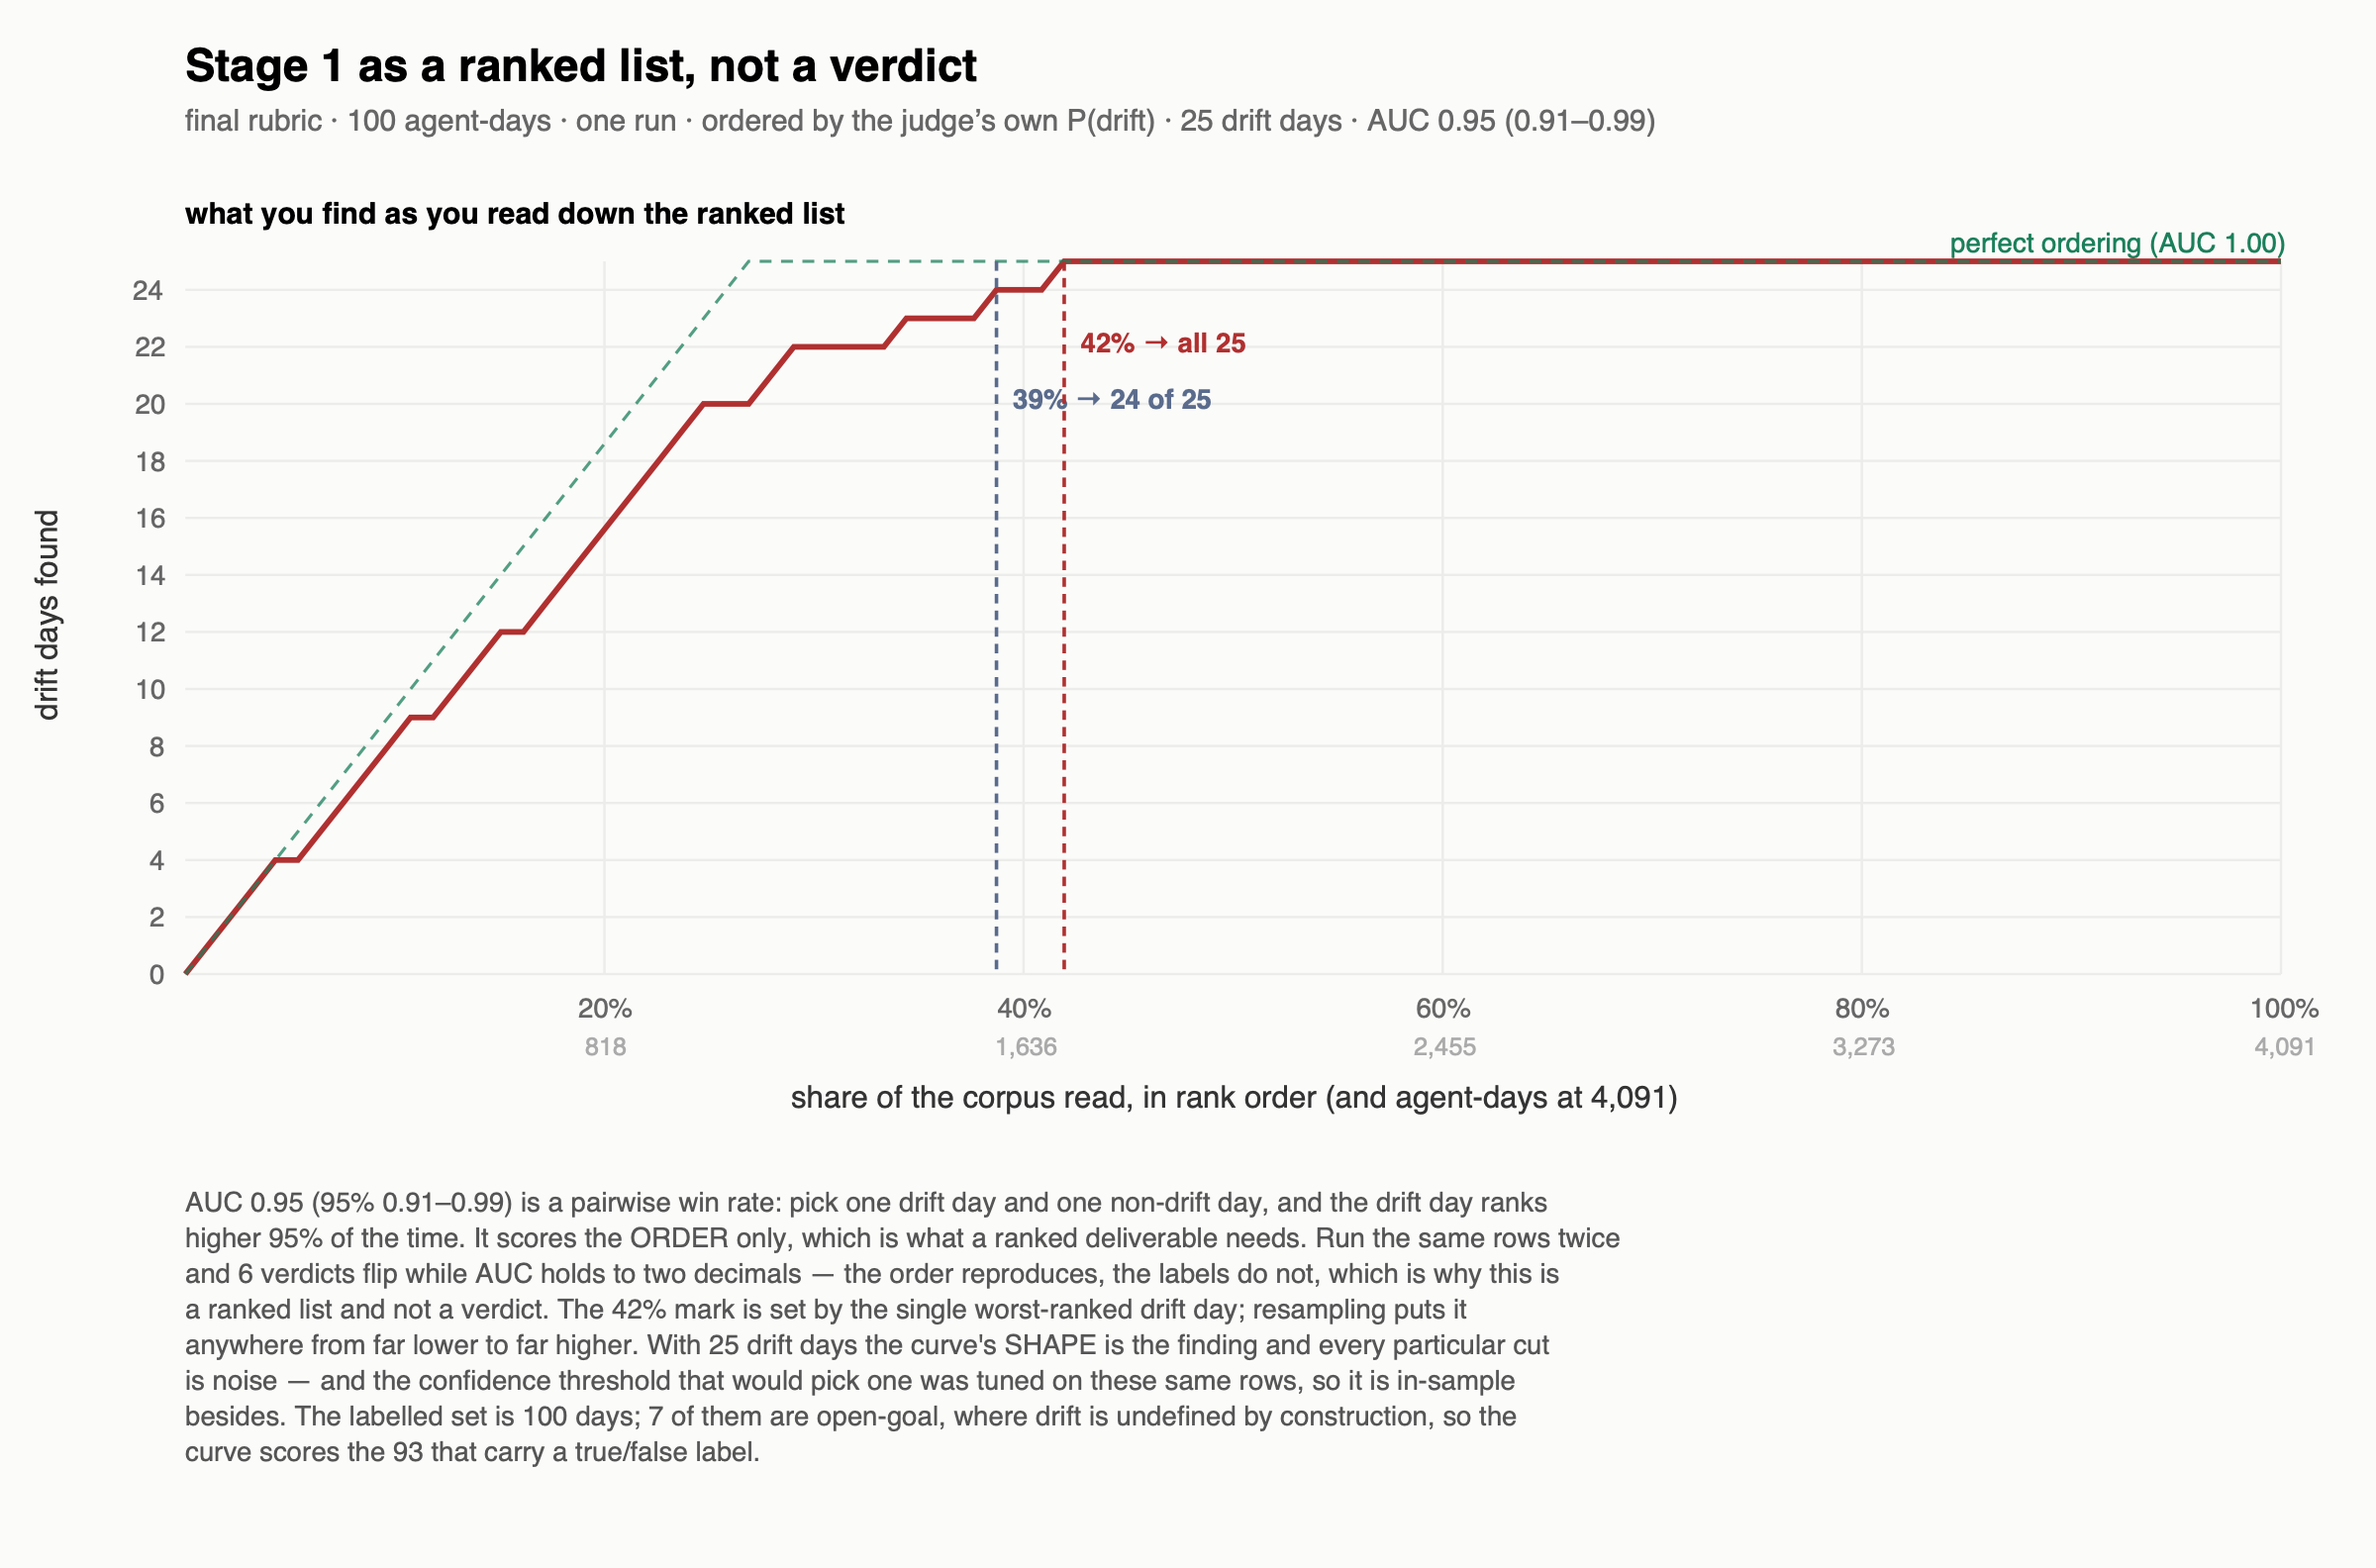
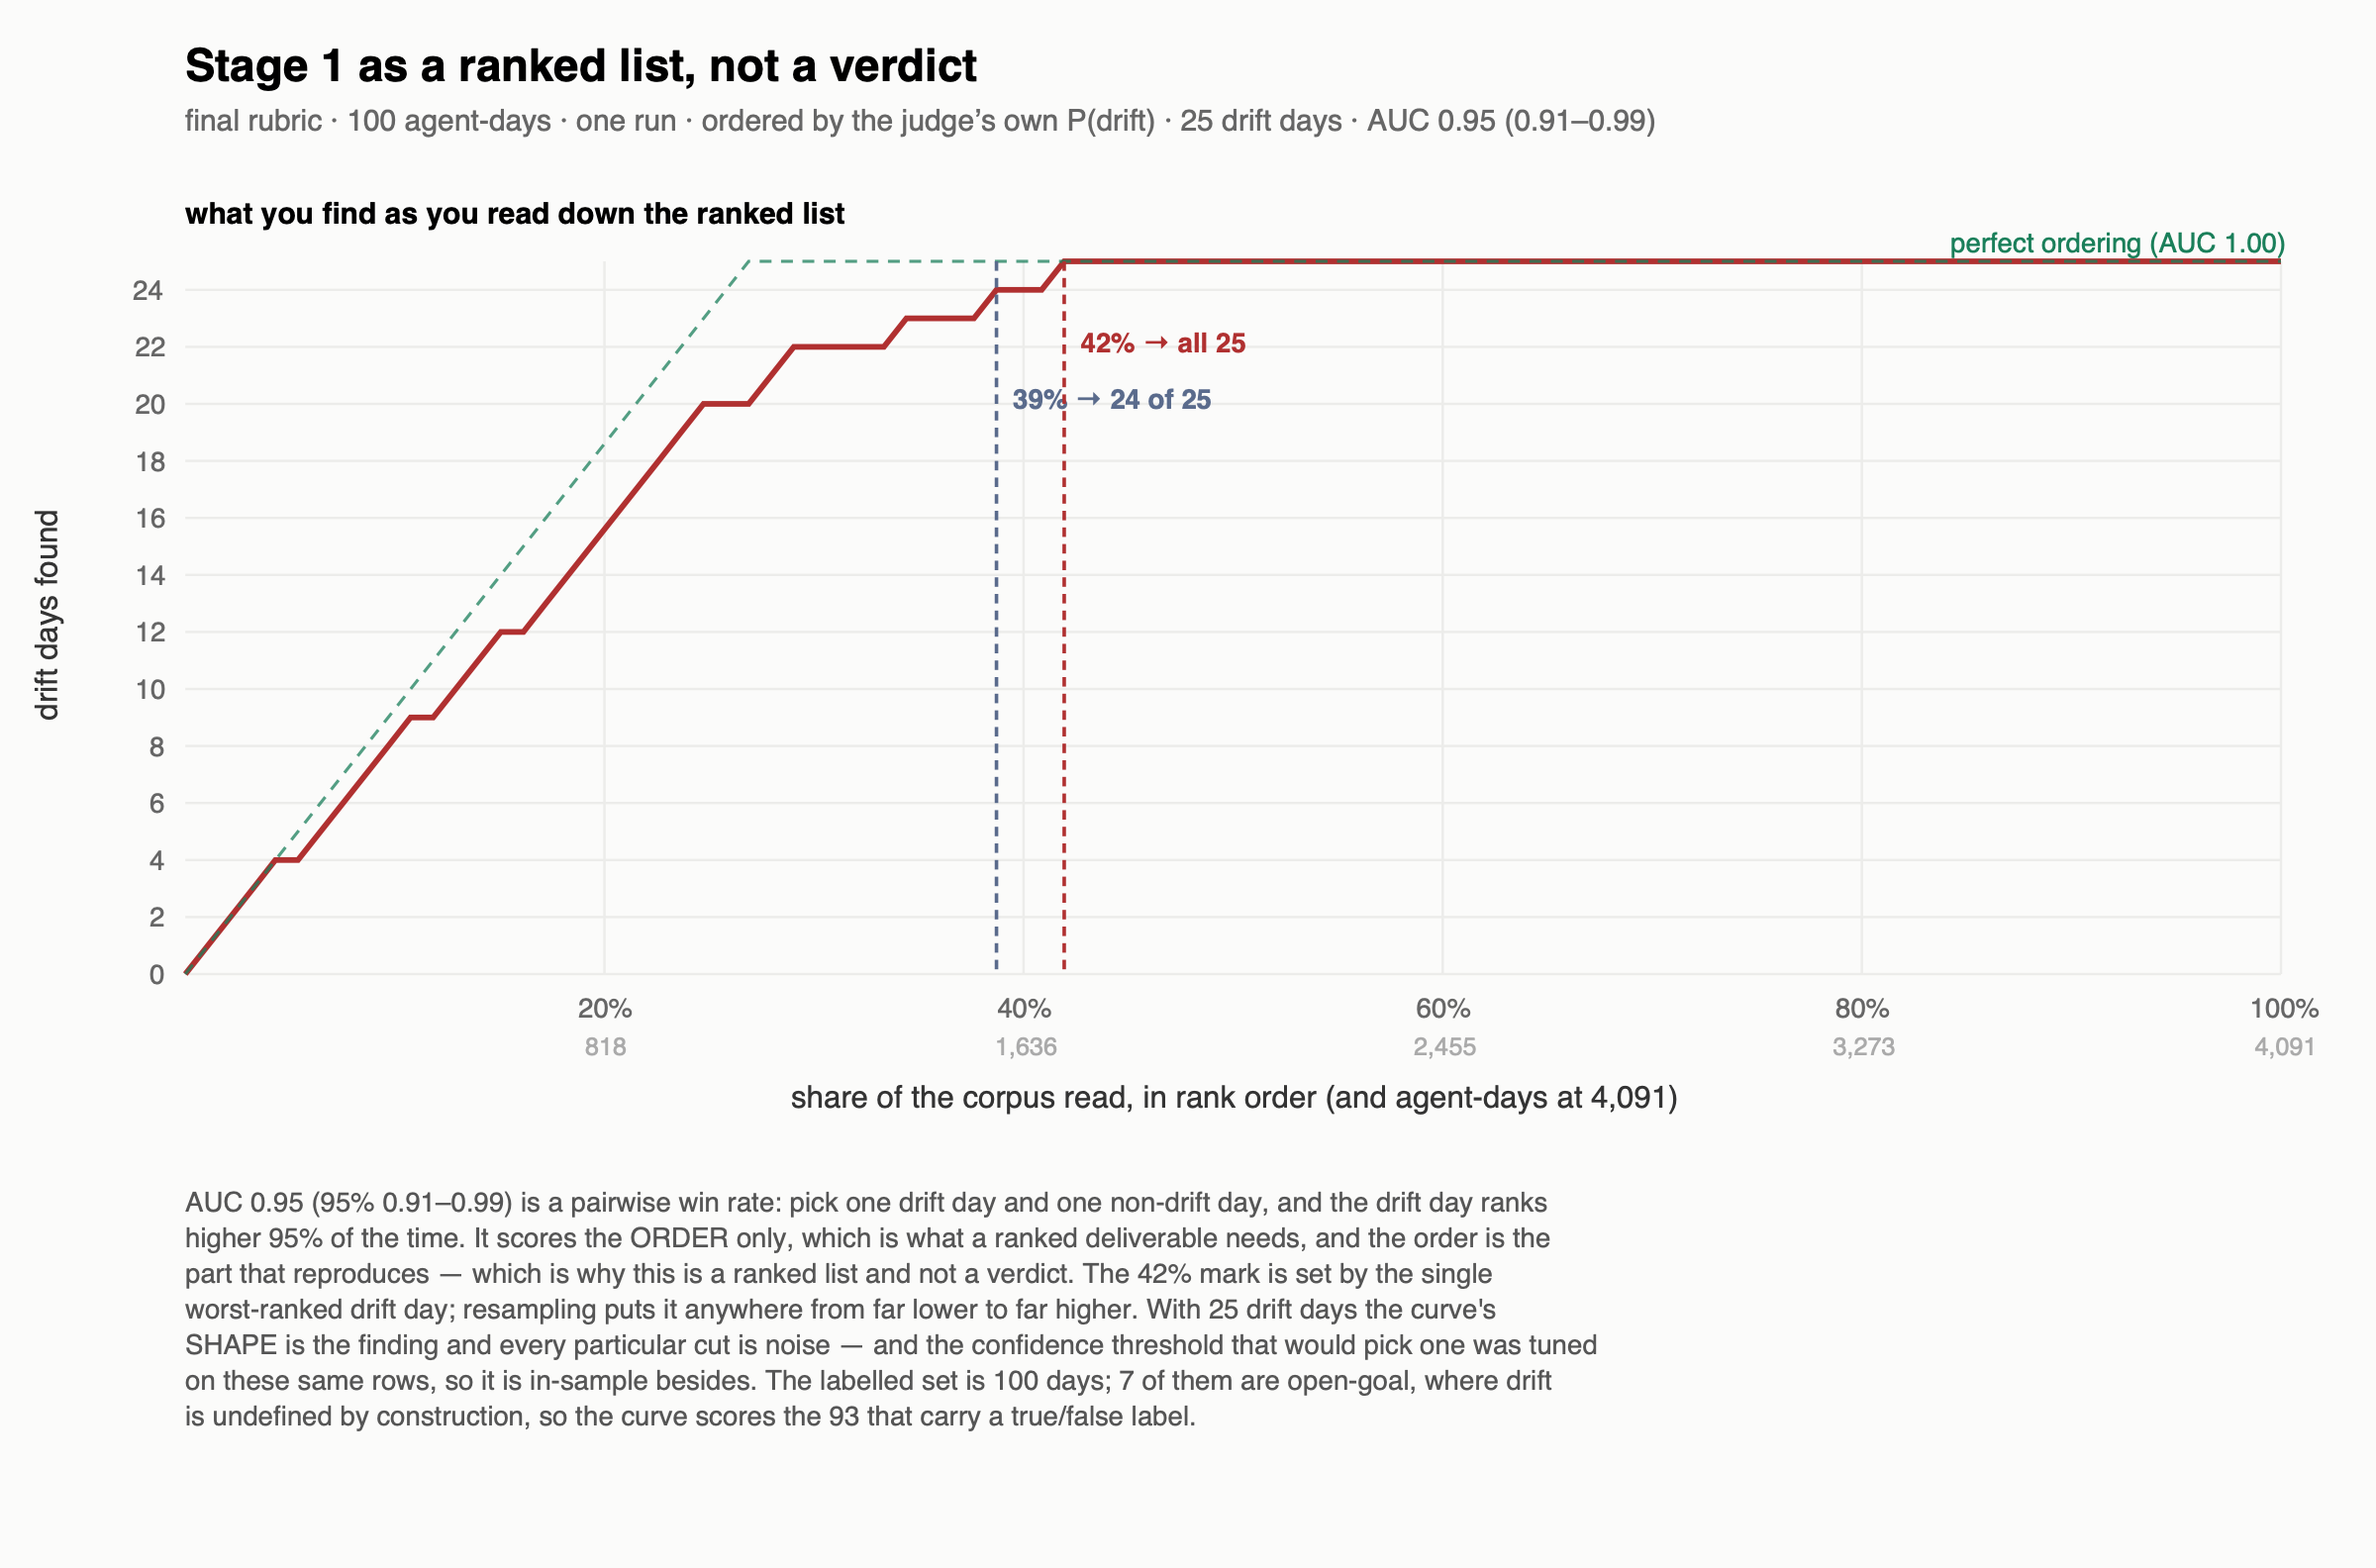
Drop the unverifiable variance claim from the ranking chart caption
The caption asserted "run the same rows twice and 6 verdicts flip while AUC
holds to two decimals". That measurement was real but was taken on B-final_a
vs B-final_b, and final_b was destroyed by an unquoted shell glob -- so the
figure stated as fact on a published chart cannot be re-derived from the
tree by anyone reading it.

The sentence was also carrying the title's justification, so the clause is
rewritten rather than cut: the order being the part that reproduces is why
this is a ranked list and not a verdict, and that still holds without
quoting a number nobody can check. The finding keeps its provenance note in
README.md, where there is room to say where it came from.

Changed region(s): [[0.0625, 0.7734, 0.6875, 0.928]]

diff --git a/eval/ranking_chart.py b/eval/ranking_chart.py
@@ -259,10 +259,9 @@ def svg(which="holdout") -> str:
     note = (f"AUC {a:.2f} (95% {alo:.2f}–{ahi:.2f}) is a pairwise win rate: pick "
             f"one drift day and one non-drift day, and the drift day ranks "
             f"higher {100*a:.0f}% of the time. It scores the ORDER only, which "
-            f"is what a ranked deliverable needs. Run the same rows twice and 6 "
-            f"verdicts flip while AUC holds to two decimals — the order "
-            f"reproduces, the labels do not, which is why this is a ranked "
-            f"list and not a verdict. "
+            f"is what a ranked deliverable needs, and the order is the part "
+            f"that reproduces — which is why this is a ranked list and not a "
+            f"verdict. "
             f"The {cut:.0f}% mark is set by the "
             f"single worst-ranked drift day; resampling puts "
             f"it anywhere from "
